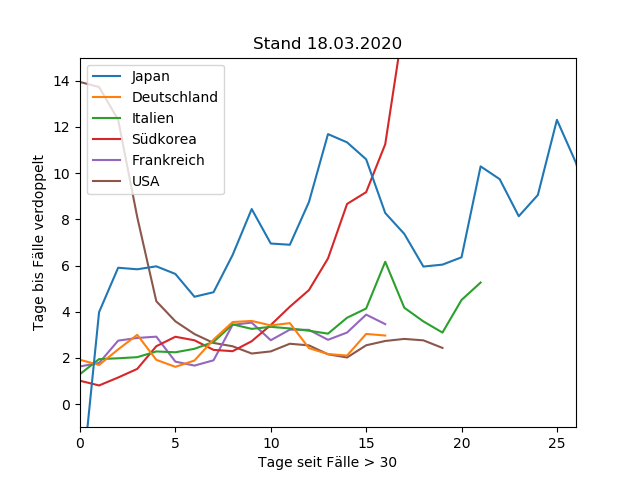
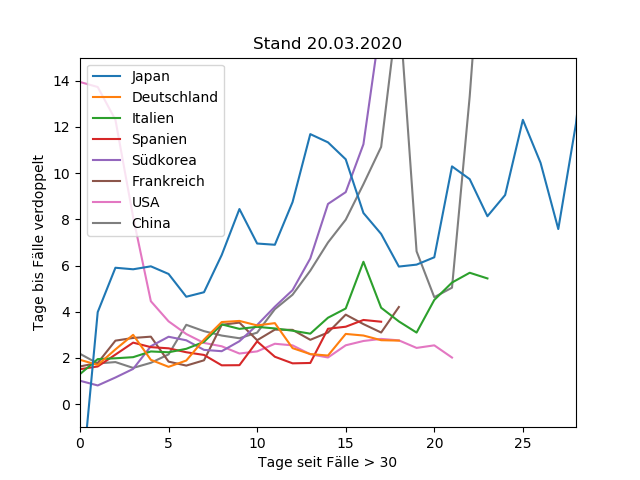
updated data

diff --git a/plot.py b/plot.py
@@ -6,7 +6,7 @@ import matplotlib.pyplot as plt
 from scipy.optimize import curve_fit
 import numpy as np
 
-countries = ['Germany', 'Italy', 'Korea, South', 'France', 'US', 'Japan'] # 'China', 'Spain'
+countries = ['Germany', 'Italy', 'Korea, South', 'France', 'US', 'Japan', 'China', 'Spain']
 epsilon = 1e-6
 translation = {'Germany': 'Deutschland',
         'Italy': 'Italien',
